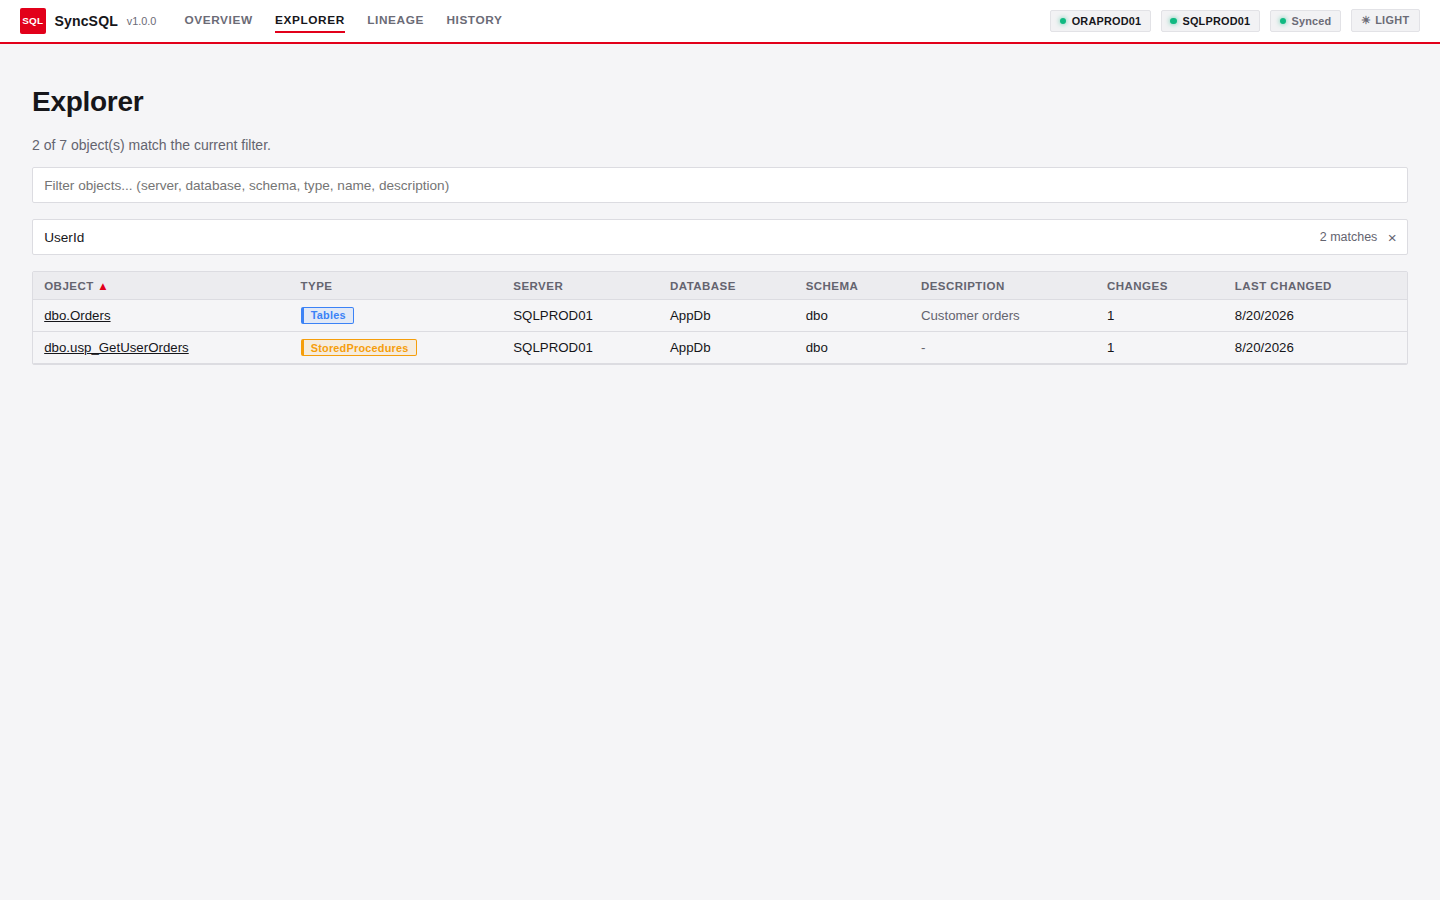
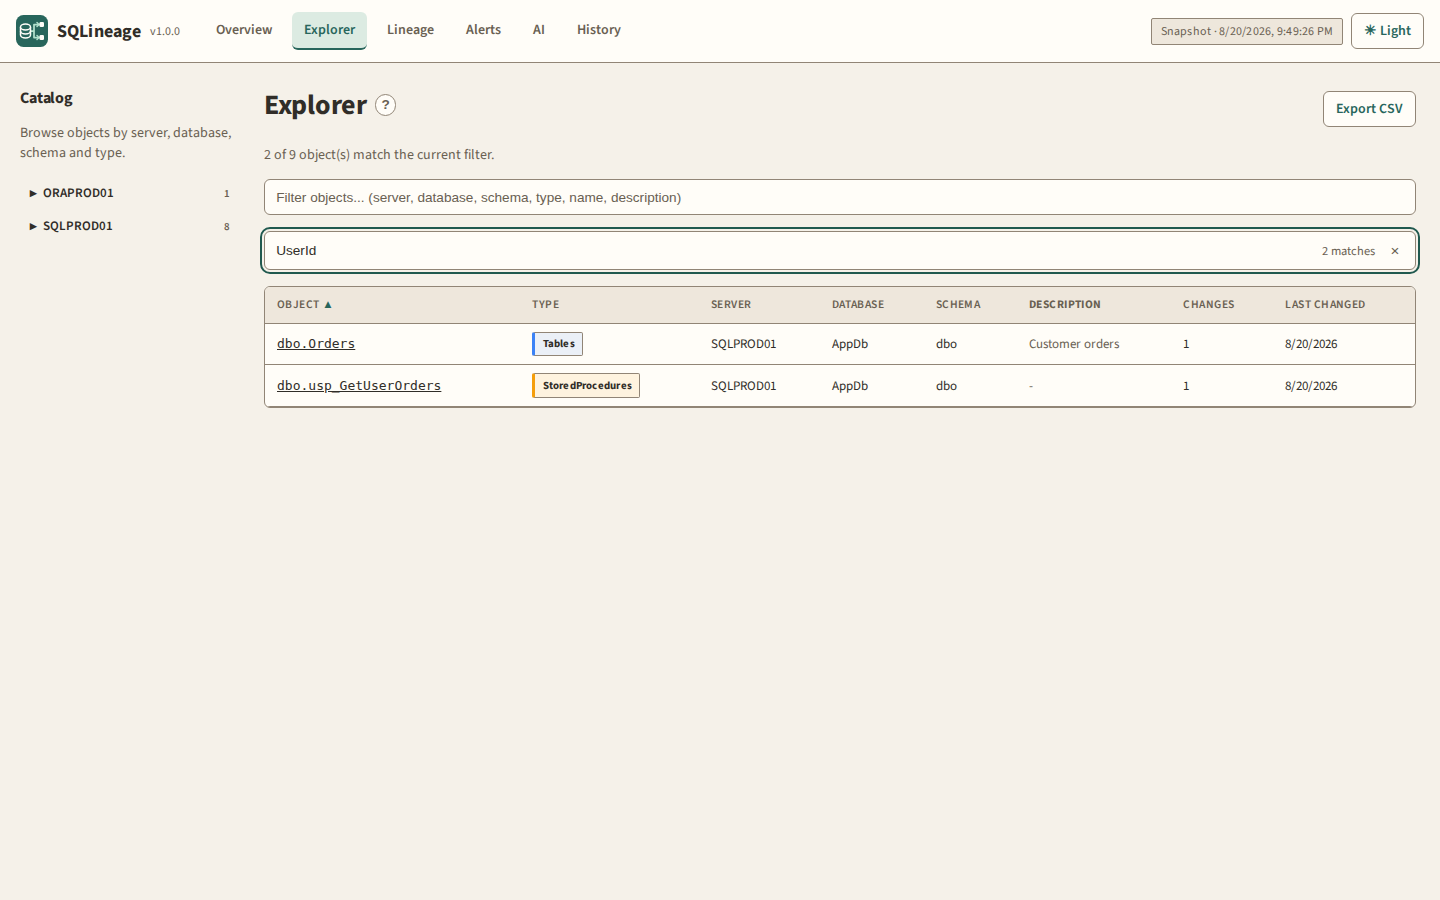
docs: refresh README screenshots and cover the current features
The screenshot gallery still showed the pre-rebrand interface and carried a
note saying so. Recapture every shot at 1440x900 against the current build,
in the SQLineage theme, and add the screens that had no image at all:

- Alerts, the consolidated anomaly/orphan investigation page
- Lineage's Access tab (search a grantee, see their objects and graph)
- the Object explorer's Relationships and Metrics workspaces, with the SQL
  definition pinned above the workspace tabs
- the AI filter assistant showing a generated filter plan
- the lineage graph in the dark theme, next to the Theme section

Drop overview-anomalies.png: those preview panels moved into Alerts.

Also update the captions to the current UI (permanent Catalog sidebar, graph
legend, workspace tabs), call the app SQLineage in the opening line, and
reword two leftover changelog-style sentences as plain description.

Claude-Session: https://claude.ai/code/session_01PndiEECUxgdSuCvbEMmdB8

diff --git a/README.md b/README.md
@@ -4,7 +4,7 @@ SQLineage is the database catalog and investigation app, formerly branded SyncSQ
 
 [![CI](https://github.com/cangelosilima/SyncSQL/actions/workflows/ci.yml/badge.svg)](https://github.com/cangelosilima/SyncSQL/actions/workflows/ci.yml)
 
-SyncSQL extracts database objects — stored procedures, views, functions,
+SQLineage extracts database objects — stored procedures, views, functions,
 triggers, tables (with foreign keys, check constraints and indexes), schemas,
 synonyms, and linked servers / database links — from a fleet of **MSSQL** and
 **Oracle** servers into a git repository: one file per object, one commit per
@@ -19,26 +19,30 @@ noisy.
 
 ## Screenshots
 
-These screenshots document an earlier interface and do not yet show the warm
-SQLineage theme or the current workspace layout. The descriptions below and
-[the current UX specification](docs/ux-refactor/current-experience.md) describe
-the implemented experience.
+Captured at 1440×900 against a small demo catalog, in the default light theme
+unless noted.
 
-**Overview** — five summary cards (total objects, commits mined, lineage edges,
-Alerts, last change), a per-type change-activity heatmap, latest changes,
-most-referenced tables, most-changed objects and commonly changed pairs.
-The top bar reports the catalog snapshot, not live database connectivity.
+**Overview** — five summary cards (total objects, commits mined, lineage
+edges, **Alerts**, last change), a per-type change-activity heatmap, latest
+changes, most-referenced tables, most-changed objects and commonly changed
+pairs. The top bar reports the catalog snapshot, not live database
+connectivity.
 
 ![Overview page](docs/screenshots/overview.png)
 
-**Alerts** — a dedicated investigation page consolidating metric anomalies
-and orphaned references. Overview shows the complete total and category
-breakdown in its Alerts card; the former two preview panels are removed.
-Category and text filters narrow findings, with links to the affected object
-and its lineage. Metric anomalies are labeled as heuristics.
+**Alerts** — one investigation page for every metric anomaly and orphaned
+reference the snapshot holds. Category and text filters (both kept in the URL)
+narrow the findings, each row carries the evidence behind it, and **Inspect
+object** / **Explore lineage** open the affected object or its graph. Metric
+anomalies are labeled **Heuristic**, orphaned references **Catalog finding** —
+these are snapshot findings, not live notifications.
+
+![Alerts page](docs/screenshots/alerts.png)
 
 **Explorer** — a sortable, filterable table of every extracted object, with a
-GitLab-style filter bar (attribute, operator, value).
+GitLab-style filter bar (attribute, operator, value) and a permanent
+**Catalog** sidebar whose hierarchy is Server → Database → Schema → Type →
+Object.
 
 ![Explorer page](docs/screenshots/explorer.png)
 
@@ -49,19 +53,38 @@ procs reference this column".
 ![Explorer DDL content search](docs/screenshots/explorer-search.png)
 
 **Lineage graph** — an interactive dependency graph with drill-down, built
-from a real SQL parser per engine, not text matching. Edges carrying a known
-column reference are highlighted and labeled. The current filter/focus/hop
-state stays live in the URL (**Copy link** for a shareable view), and
-**Export SVG**/**Export PNG** render the visible graph to a standalone image.
+from a real SQL parser per engine, not text matching. A collapsible legend
+explains direction, reference styles and node types; the inspector stays
+beside the graph. Edges carrying a known column reference are highlighted and
+labeled. The current filter/focus/hop state stays live in the URL (**Copy
+link** for a shareable view), and **Export SVG**/**Export PNG** render the
+visible graph to a standalone image.
 
 ![Lineage graph](docs/screenshots/lineage.png)
 
-**Object detail** — a breadcrumb trail, a quick-facts bar (modified date,
-deps, used-by, columns) with a jump to the lineage graph, full column list,
-DDL, foreign keys / check constraints / indexes, and a metrics panel of
-volume/index/optimizer-statistics trends.
+**Access** — the same page flipped around: search a grantee (user, role or
+group) to see every object they hold a GRANT or DENY on, listed in a table and
+drawn in the same graph.
 
-![Object detail page](docs/screenshots/object-detail.png)
+![Lineage access search](docs/screenshots/lineage-access.png)
+
+**Object explorer** — a breadcrumb trail, a quick-facts bar (modified date,
+deps, used-by, columns) with a jump to the lineage graph, and the **SQL
+definition always visible above** the workspace tabs: Columns, Graph, Access,
+Relationships, Metrics, History and Diff.
+
+![Object explorer](docs/screenshots/object-detail.png)
+
+**Relationships workspace** — "depends on" and "used by" with the column tags
+recorded on each edge, and **All relationship evidence** opening the graph.
+
+![Object relationships workspace](docs/screenshots/object-relationships.png)
+
+**Metrics workspace** — volume, size, index fragmentation/usage and
+optimizer-statistics trends for a table, mined at extraction time and kept out
+of the object's own version history.
+
+![Object metrics workspace](docs/screenshots/object-metrics.png)
 
 **Orphaned reference warning** — flagged directly on the referencing
 object's own page, alongside the catalog-wide investigation in Alerts.
@@ -72,6 +95,13 @@ object's own page, alongside the catalog-wide investigation in Alerts.
 picks any two revisions (including the current definition) for a diff.
 
 ![Object detail side-by-side diff](docs/screenshots/object-diff.png)
+
+**AI filter assistant** — an English request becomes a preview of validated
+Explorer filters and one DDL content query, planned in the browser by a local
+model. It is only ever a preview of filters — no SQL is generated or run — and
+**Open in Explorer** hands the plan to the Explorer filter bar.
+
+![AI filter assistant](docs/screenshots/ai.png)
 
 **In-app help** — every page's heading carries a **?** that opens that page's
 own Markdown guide over the current view: what the page is for, what each
@@ -384,7 +414,8 @@ Primary navigation is **Overview → Explorer → Lineage → Alerts → AI → 
   metric anomalies and orphaned references, shows both counts, and links to
   the investigation page. The remaining panels show per-type change activity,
   latest changes, most-referenced tables, most-changed objects and commonly
-  changed pairs. Detailed anomaly/orphan panels now live in Alerts.
+  changed pairs. The evidence behind each anomaly and orphan lives in Alerts,
+  not on this page.
 - **Alerts** (`/#/alerts`) — complete findings with category and text filters
   preserved in the URL (`category` and `q`), incremental results, object and
   lineage links, and in-app help. Metric anomalies are **Heuristic** and
@@ -626,6 +657,8 @@ balanced object details retain technical depth in both themes. SQL viewers
 keep a dark syntax-highlighting surface; the Lineage graph follows the
 selected site theme. Shared colors and spacing live in `site/src/tokens.css`.
 The SQLineage database-and-relationships icon is used in the header and favicon.
+
+![Lineage graph in the dark theme](docs/screenshots/dark-mode-lineage.png)
 
 ### Grant mapping
 
